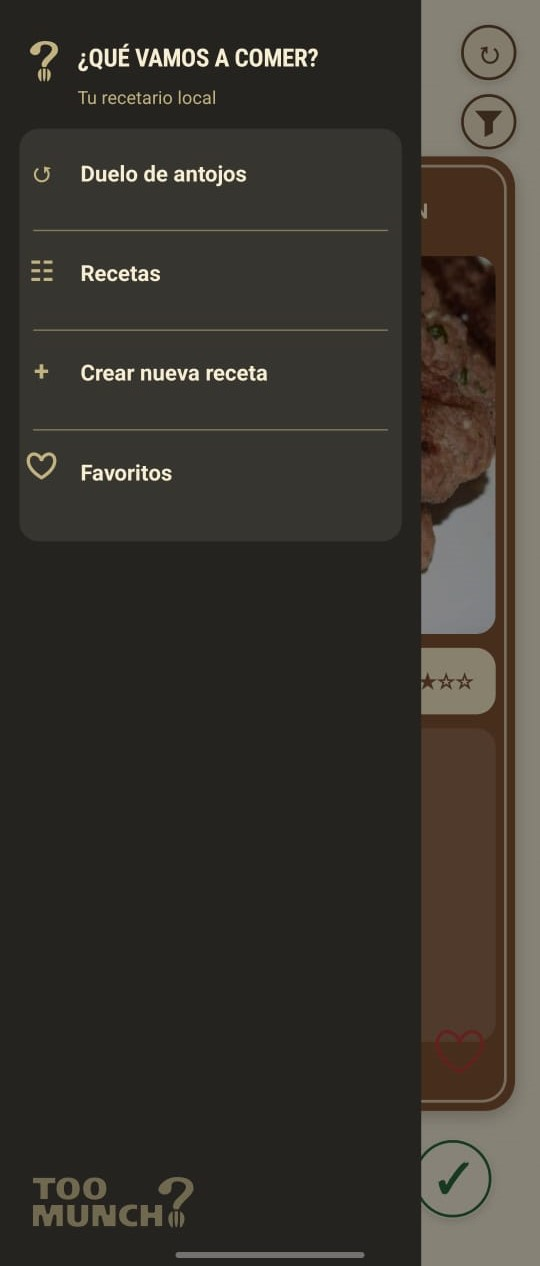
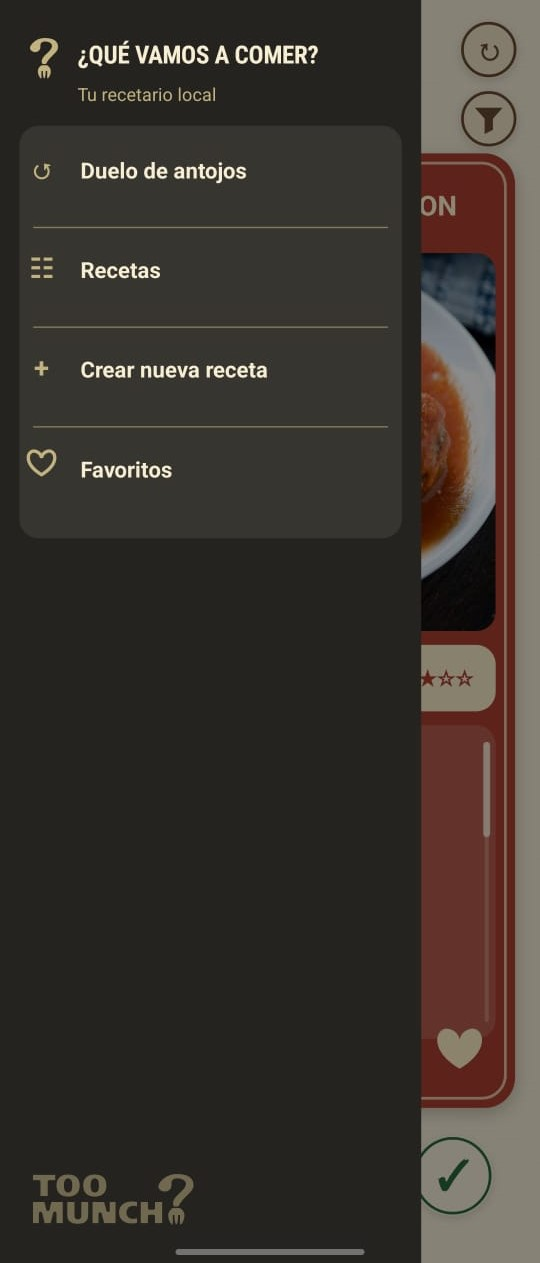
Too Munch nuevas capturas

diff --git a/too-munch.html b/too-munch.html
@@ -137,7 +137,7 @@
           <div class="swiper-slide"><figure class="tm-media tm-media--screen"><picture><source srcset="assets/images/too%20munch/web/10-v2-540.avif" type="image/avif"><source srcset="assets/images/too%20munch/web/10-v2-540.webp" type="image/webp"><img src="assets/images/too%20munch/10.jpeg" width="540" height="1271" loading="lazy" draggable="false" alt="Formulario para crear una receta de mole de olla con arroz en Too Munch?."></picture></figure></div>
           <div class="swiper-slide"><figure class="tm-media tm-media--screen"><picture><source srcset="assets/images/too%20munch/web/11-v2-540.avif" type="image/avif"><source srcset="assets/images/too%20munch/web/11-v2-540.webp" type="image/webp"><img src="assets/images/too%20munch/11.jpeg" width="540" height="1263" loading="lazy" draggable="false" alt="Duelo de antojos con una tarjeta de arroz frito."></picture></figure></div>
           <div class="swiper-slide"><figure class="tm-media tm-media--screen"><picture><source srcset="assets/images/too%20munch/web/12-v2-540.avif" type="image/avif"><source srcset="assets/images/too%20munch/web/12-v2-540.webp" type="image/webp"><img src="assets/images/too%20munch/12.jpeg" width="540" height="1269" loading="lazy" draggable="false" alt="Listado de recetas guardadas en Too Munch?."></picture></figure></div>
-          <div class="swiper-slide"><figure class="tm-media tm-media--screen"><picture><source srcset="assets/images/too%20munch/web/13-v2-540.avif" type="image/avif"><source srcset="assets/images/too%20munch/web/13-v2-540.webp" type="image/webp"><img src="assets/images/too%20munch/13.jpeg" width="540" height="1266" loading="lazy" draggable="false" alt="Menú lateral de Too Munch? con accesos al duelo, las recetas, la creación y favoritos."></picture></figure></div>
+          <div class="swiper-slide"><figure class="tm-media tm-media--screen"><picture><source srcset="assets/images/too%20munch/web/13-v4-540.avif" type="image/avif"><source srcset="assets/images/too%20munch/web/13-v4-540.webp" type="image/webp"><img src="assets/images/too%20munch/13.jpeg" width="540" height="1263" loading="lazy" draggable="false" alt="Menú lateral de Too Munch? con accesos al duelo, las recetas, la creación y favoritos."></picture></figure></div>
           <div class="swiper-slide"><figure class="tm-media tm-media--screen tm-media--device"><picture><source srcset="assets/images/too%20munch/web/14-v2-540.avif" type="image/avif"><source srcset="assets/images/too%20munch/web/14-v2-540.webp" type="image/webp"><img src="assets/images/too%20munch/14.jpeg" width="540" height="1269" loading="lazy" draggable="false" alt="Pantalla final de una receta de albóndigas en Too Munch?."></picture></figure></div>
           <div class="swiper-slide"><figure class="tm-media tm-media--screen"><picture><source srcset="assets/images/too%20munch/web/15-v2-540.avif" type="image/avif"><source srcset="assets/images/too%20munch/web/15-v2-540.webp" type="image/webp"><img src="assets/images/too%20munch/15.jpeg" width="540" height="1266" loading="lazy" draggable="false" alt="Receta de enchiladas verdes mostrada en la sección de favoritos."></picture></figure></div>
           <div class="swiper-slide"><figure class="tm-media tm-media--screen"><picture><source srcset="assets/images/too%20munch/web/16-v2-540.avif" type="image/avif"><source srcset="assets/images/too%20munch/web/16-v2-540.webp" type="image/webp"><img src="assets/images/too%20munch/16.jpeg" width="540" height="1266" loading="lazy" draggable="false" alt="Filtros del duelo de antojos sobre una tarjeta de receta."></picture></figure></div>

diff --git a/too-munch-en.html b/too-munch-en.html
@@ -138,7 +138,7 @@
           <div class="swiper-slide"><figure class="tm-media tm-media--screen"><picture><source srcset="assets/images/too%20munch/web/10-v2-540.avif" type="image/avif"><source srcset="assets/images/too%20munch/web/10-v2-540.webp" type="image/webp"><img src="assets/images/too%20munch/10.jpeg" width="540" height="1271" loading="lazy" draggable="false" alt="Form for creating a mole de olla with rice recipe in Too Munch?."></picture></figure></div>
           <div class="swiper-slide"><figure class="tm-media tm-media--screen"><picture><source srcset="assets/images/too%20munch/web/11-v2-540.avif" type="image/avif"><source srcset="assets/images/too%20munch/web/11-v2-540.webp" type="image/webp"><img src="assets/images/too%20munch/11.jpeg" width="540" height="1263" loading="lazy" draggable="false" alt="Craving duel featuring a card for fried rice."></picture></figure></div>
           <div class="swiper-slide"><figure class="tm-media tm-media--screen"><picture><source srcset="assets/images/too%20munch/web/12-v2-540.avif" type="image/avif"><source srcset="assets/images/too%20munch/web/12-v2-540.webp" type="image/webp"><img src="assets/images/too%20munch/12.jpeg" width="540" height="1269" loading="lazy" draggable="false" alt="List of saved recipes in Too Munch?."></picture></figure></div>
-          <div class="swiper-slide"><figure class="tm-media tm-media--screen"><picture><source srcset="assets/images/too%20munch/web/13-v2-540.avif" type="image/avif"><source srcset="assets/images/too%20munch/web/13-v2-540.webp" type="image/webp"><img src="assets/images/too%20munch/13.jpeg" width="540" height="1266" loading="lazy" draggable="false" alt="Too Munch? side menu with links to the duel, recipes, recipe creation, and favorites."></picture></figure></div>
+          <div class="swiper-slide"><figure class="tm-media tm-media--screen"><picture><source srcset="assets/images/too%20munch/web/13-v4-540.avif" type="image/avif"><source srcset="assets/images/too%20munch/web/13-v4-540.webp" type="image/webp"><img src="assets/images/too%20munch/13.jpeg" width="540" height="1263" loading="lazy" draggable="false" alt="Too Munch? side menu with links to the duel, recipes, recipe creation, and favorites."></picture></figure></div>
           <div class="swiper-slide"><figure class="tm-media tm-media--screen tm-media--device"><picture><source srcset="assets/images/too%20munch/web/14-v2-540.avif" type="image/avif"><source srcset="assets/images/too%20munch/web/14-v2-540.webp" type="image/webp"><img src="assets/images/too%20munch/14.jpeg" width="540" height="1269" loading="lazy" draggable="false" alt="Final screen for a meatball recipe in Too Munch?."></picture></figure></div>
           <div class="swiper-slide"><figure class="tm-media tm-media--screen"><picture><source srcset="assets/images/too%20munch/web/15-v2-540.avif" type="image/avif"><source srcset="assets/images/too%20munch/web/15-v2-540.webp" type="image/webp"><img src="assets/images/too%20munch/15.jpeg" width="540" height="1266" loading="lazy" draggable="false" alt="Green enchilada recipe displayed in the favorites section."></picture></figure></div>
           <div class="swiper-slide"><figure class="tm-media tm-media--screen"><picture><source srcset="assets/images/too%20munch/web/16-v2-540.avif" type="image/avif"><source srcset="assets/images/too%20munch/web/16-v2-540.webp" type="image/webp"><img src="assets/images/too%20munch/16.jpeg" width="540" height="1266" loading="lazy" draggable="false" alt="Craving duel filters displayed over a recipe card."></picture></figure></div>
